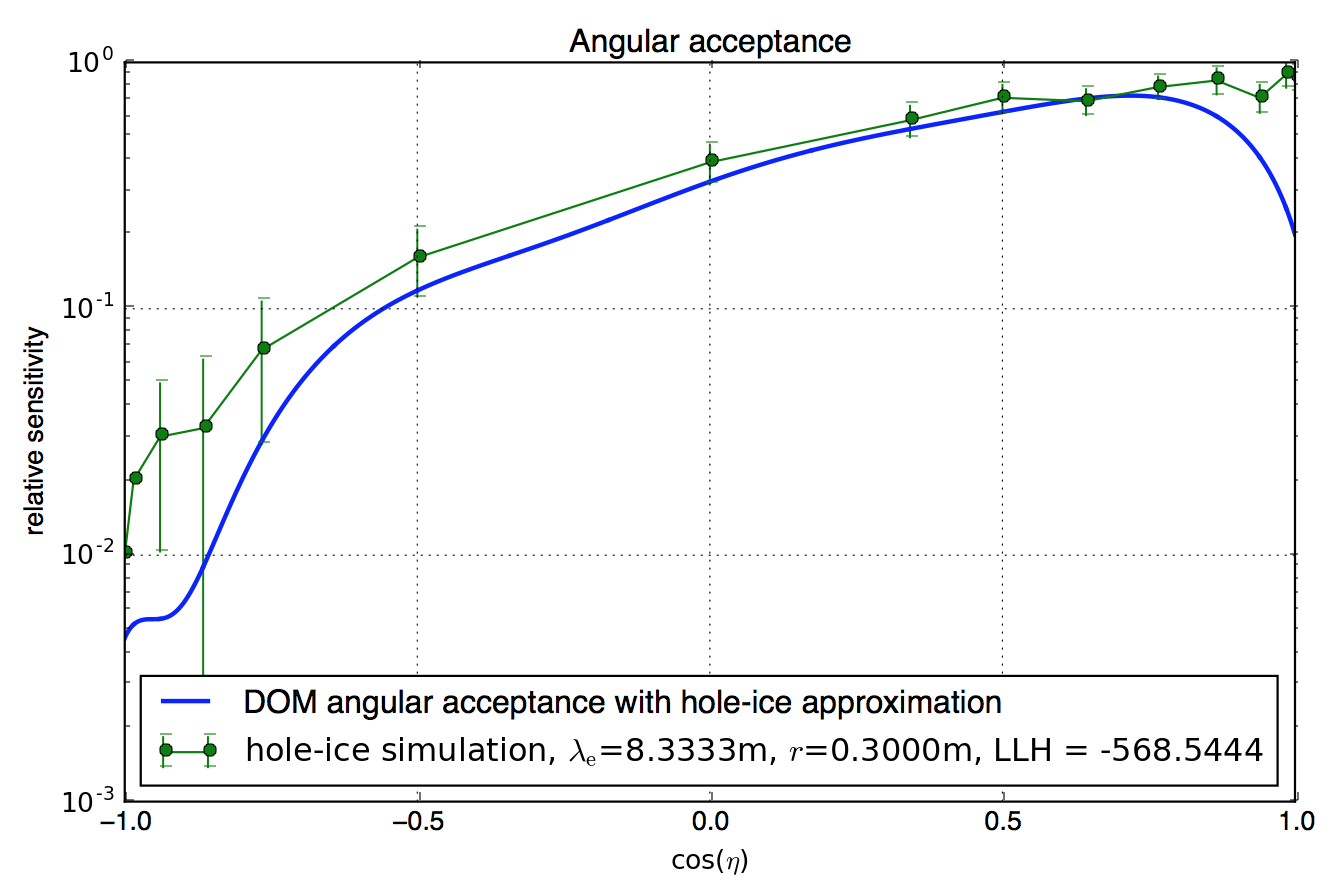
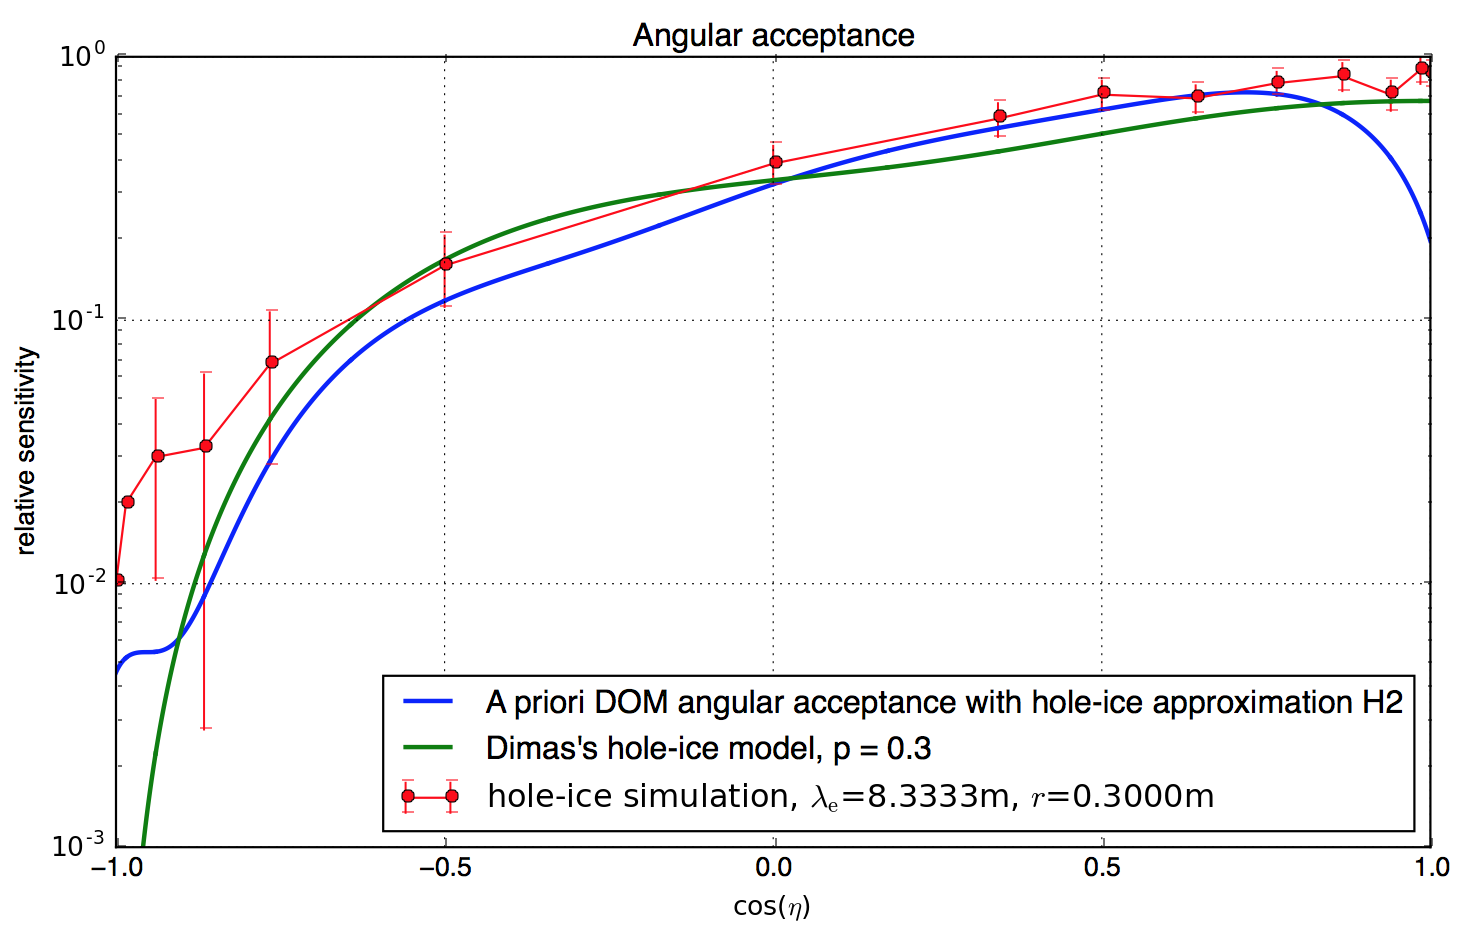
writing about angular-acceptance simulation with H2 parameters
https://github.com/fiedl/hole-ice-study/issues/80

Changed region(s): [[0.0308, 0.0303, 0.9865, 1.0], [0.0, 0.364, 0.0308, 0.6067], [0.0308, 0.3034, 0.1233, 0.364]]

diff --git a/text/comparison.md.tex b/text/comparison.md.tex
@@ -7,6 +7,7 @@
 \label{sec:comparison_methods}
 
 \subsubsection{A Priori Modification of Angular-Acception Curves}
+\label{sec:a_priori_modification_of_angular_acception_curves}\label{sec:a_priori_curve}
 
 % https://github.com/fiedl/hole-ice-study/issues/10
 
@@ -46,7 +47,14 @@ The H2 acceptance curve, which is used in standard-\clsim simulations by default
 %
 % d.h. man nimmt nicht Eis-Eigenschaften an, sondern fittet die Winkelakzeptanz direkt an Flasher-Daten
 %
-% angular-acceptance-h2-vs-dima-102
+% https://wiki.icecube.wisc.edu/index.php/MSU_Forward_Hole_Ice
+%
+% Another advantage of using Dima's hole ice instead of H2 to extend the parametrization is that
+% Dima's hole ice has a somewhat simple formula with a single parameter p as systematic, while the
+% H2 model was made via fitting the angular acceptance curve of different simulated hole ices with
+% different scattering lengths which means each of the fits turned out somewhat different as seen in
+% the figure above and one parametrization would not be as easily transferable to the hole ice at
+% different scattering parameters.
 %
 \chirkin suggests a hole-ice model, often refered to as \textit{Dima's model}, resulting in an angular-acceptance curve, $a\domdima(\eta;p)$, different from the a priori curves for the H1, H2, H3 models.\cite{flasherdataderivedicemodels}
 
@@ -89,18 +97,12 @@ Hardware requirements and performance of \ppc and \clsim are comparable. Due to 
 \ppc does only support one hole-ice cylinder per string. The main cable of the detector string is not implemented as absorbing object but rather accounted for by using a direction-dependent shadowing factor for incoming photons. \cite{ppcsource}\cite{ppcforhumans}
 
 
-\subsubsection{Comparing Angular-Acceptance Curves}
-\label{sec:angular_acceptance_comparison}
+\subsection{Comparison to Hole-Ice Parameters From Other Studies}
+\label{sec:angular_acceptance_comparison}\label{sec:parameter_comparison}
 
 % https://github.com/fiedl/hole-ice-study/issues/104
 
-Based on laser measurements, \authorname{Karle} suggested a number of hole ice models \cite{holeicestudieswithyag}, from which the so called \textbf{H2 model} has been the dominant model in IceCube until 2015. This model suggests a geometric scattering length of $50\cm$ for the hole ice, and a hole-ice-cylinder radius of $30\cm$. Figure \ref{fig:xaeg2Mee} shows the result of an angular-acceptance simulation using the new medium-propagation algorithm with direct detection and plane waves in comparison to the a priori angular-acception curve from \cite{icepaper}.
 
-\begin{figure}[htbp]
-  \smallerimage{angular-acceptance-karle-h2-xaeg2Mee}
-  \caption{Simulation with parameters from the so called \textit{H2 model} \cite{holeicestudieswithyag}, which describes the hole ice as cylinder of $30\cm$ radius filling the entire drill hole, with a geometric scattering length of $50\cm$, corresponding to an effective scattering length of $\lambda\hi\esca = 0.33\m$, using the new medium-propagation algorithm (section \ref{sec:algorithm_b}) with direct detection as acception criterion and plane waves as photon sources (green curve). In comparison, the a priori angular-acceptance curve from \cite{icepaper} (see also figure \ref{fig:icepaper}) is shown (blue curve).}
-  \label{fig:xaeg2Mee}
-\end{figure}
 
 % https://github.com/fiedl/hole-ice-study/issues/80
 %
@@ -129,46 +131,33 @@ Based on laser measurements, \authorname{Karle} suggested a number of hole ice m
 % acceptance curves assumed that the entire drill hole is full of the scattering centres. However from
 % the Sweden camera images we suspect that this hypothesis is incorrect, and the bubbles instead
 % concentrate in the centre of the drill hole rather than throughout.
-
-% https://wiki.icecube.wisc.edu/index.php/MSU_Forward_Hole_Ice
 %
-% Another advantage of using Dima's hole ice instead of H2 to extend the parametrization is that
-% Dima's hole ice has a somewhat simple formula with a single parameter p as systematic, while the
-% H2 model was made via fitting the angular acceptance curve of different simulated hole ices with
-% different scattering lengths which means each of the fits turned out somewhat different as seen in
-% the figure above and one parametrization would not be as easily transferable to the hole ice at
-% different scattering parameters.
+\subsubsection{YAG H2 Parameters}
+Based on laser measurements, using a Yttrium-Aluminium-Granat (YAG) laser, \authorname{Karle} suggested a number of hole ice models \cite{holeicestudieswithyag}, from which the so called \textit{H2 model} is the dominant hole-ice model in IceCube. This model suggests a geometric scattering length of $50\cm$ for the hole ice, and a hole-ice-cylinder radius of $30\cm$, and is the basis for the modified angular-acception curve with hole-ice approximation described in section \ref{sec:a_priori_modification_of_angular_acception_curves}.
+
+Using the new direct photon propagation though hole ice with \clsim, one can simulate the propagation through hole ice with parameters suggested by the H2 model, scan the angular acceptance of an optical module within the simulation, and compare the result to the existing a priori angular-acceptance curve (section \ref{sec:a_priori_curve}) as well as the angular-acceptance curve suggested by Dima's model (section \ref{sec:dimas_model}).
+
+\docpar{This angular-acceptance simulation using the H2 hole-ice parameters is documented in \issue{80}.}
+
+Figure \ref{fig:xaeg2Mee} shows the result of this angular-acceptance simulation in comparison to the a priori angular-acception curve with hole-ice approximation \cite{icepaper} and Dima's model \cite{flasherdataderivedicemodels}.
+
+\begin{figure}[htbp]
+  \smallerimage{angular-acceptance-karle-h2-xaeg2Mee}
+  \caption{Angular-acceptance simulation with hole-ice parameters from the so called \textit{H2 model} \cite{holeicestudieswithyag}, which describes the hole ice as cylinder of $30\cm$ radius filling the entire drill hole, with a geometric scattering length of $50\cm$, corresponding to an effective scattering length of $\lambda\hi\esca = 8.33\m$, using the new medium-propagation algorithm (section \ref{sec:algorithm_b}) with direct detection as acception criterion and plane waves as photon sources. In comparison, the a priori angular-acceptance curve from \cite{icepaper} and the angular-acceptance curve of Dima's model \cite{flasherdataderivedicemodels} are shown.}
+  \label{fig:xaeg2Mee}
+\end{figure}
+
+For photons approaching the optical module from below (right-hand side of the plot), the simulation rather follows Dima's model, but records more detected photons in total. For photon approaching from above (left-hand side of the plot), the form of the simulation curve is similar to the a priori curve, in particluar with respect to the plateau on the left hand side, but, again, the simulation records more photons in total.
 
 
-% Rechte Seite passt nicht gut. -> Dimas Modell.
-% SpiceHD simuliert auch direkt.
+\subsubsection{DARD Parameters}
 
-% Dima: Flasher-Unfolding, \cite{flasherdataderivedicemodels}
-% d.h. man nimmt nicht Eis-Eigenschaften an, sondern fittet die Winkelakzeptanz direkt an Flasher-Daten
-%
-% Das ist dann Dimas
-
-
-- H2-Parameter
-- Dimas Modell
 - DARD-Parameter im Vgl. mit Geant4-Simulationen
+
+
 - Flasher-Fit Martin, SpiceHD, Martins beste Werte
 - POCAM,
 
-
-
-\authorname{Chirkin} suggests a hole-ice model resulting in an angular-acceptance curve different from the a priori curve from \cite{icepaper}. Figure (b) shows the simulation with the H2 parameters in comparison to Chirkin's model.
-
-angular-acceptance-h2-vs-dima-102
-
-- \todo{other hole-ice models: \url{https://wiki.icecube.wisc.edu/index.php/Hole_ice}}
-
-- Dima's Model, Angular acceptance through flasher unfolding, 2015
-  \url{https://wiki.icecube.wisc.edu/index.php/MSU_Forward_Hole_Ice}
-  \url{https://github.com/fiedl/hole-ice-study/issues/80#issuecomment-410478799}
-
-- MSU Forward Hole Ice
-  trying to combine H2 and Dima's model
 
 
 

diff --git a/lib/graphics.tex b/lib/graphics.tex
@@ -2,7 +2,7 @@
 \usepackage[font=footnotesize]{caption}
 
 \newcommand\image[1]{\includegraphics[width=\textwidth]{img/#1}}
-\newcommand\smallerimage[1]{\centering\includegraphics[width=0.6\textwidth]{img/#1}}
+\newcommand\smallerimage[1]{\centering\includegraphics[width=0.7\textwidth]{img/#1}}
 \newcommand\halfimage[1]{\includegraphics[width=0.48\textwidth]{img/#1}}
 \newcommand\halfcropimage[2]{\includegraphics[width=0.48\textwidth, trim={#2}, clip]{img/#1}}
 \newcommand\thirdimage[1]{\includegraphics[width=0.32\textwidth]{img/#1}}
